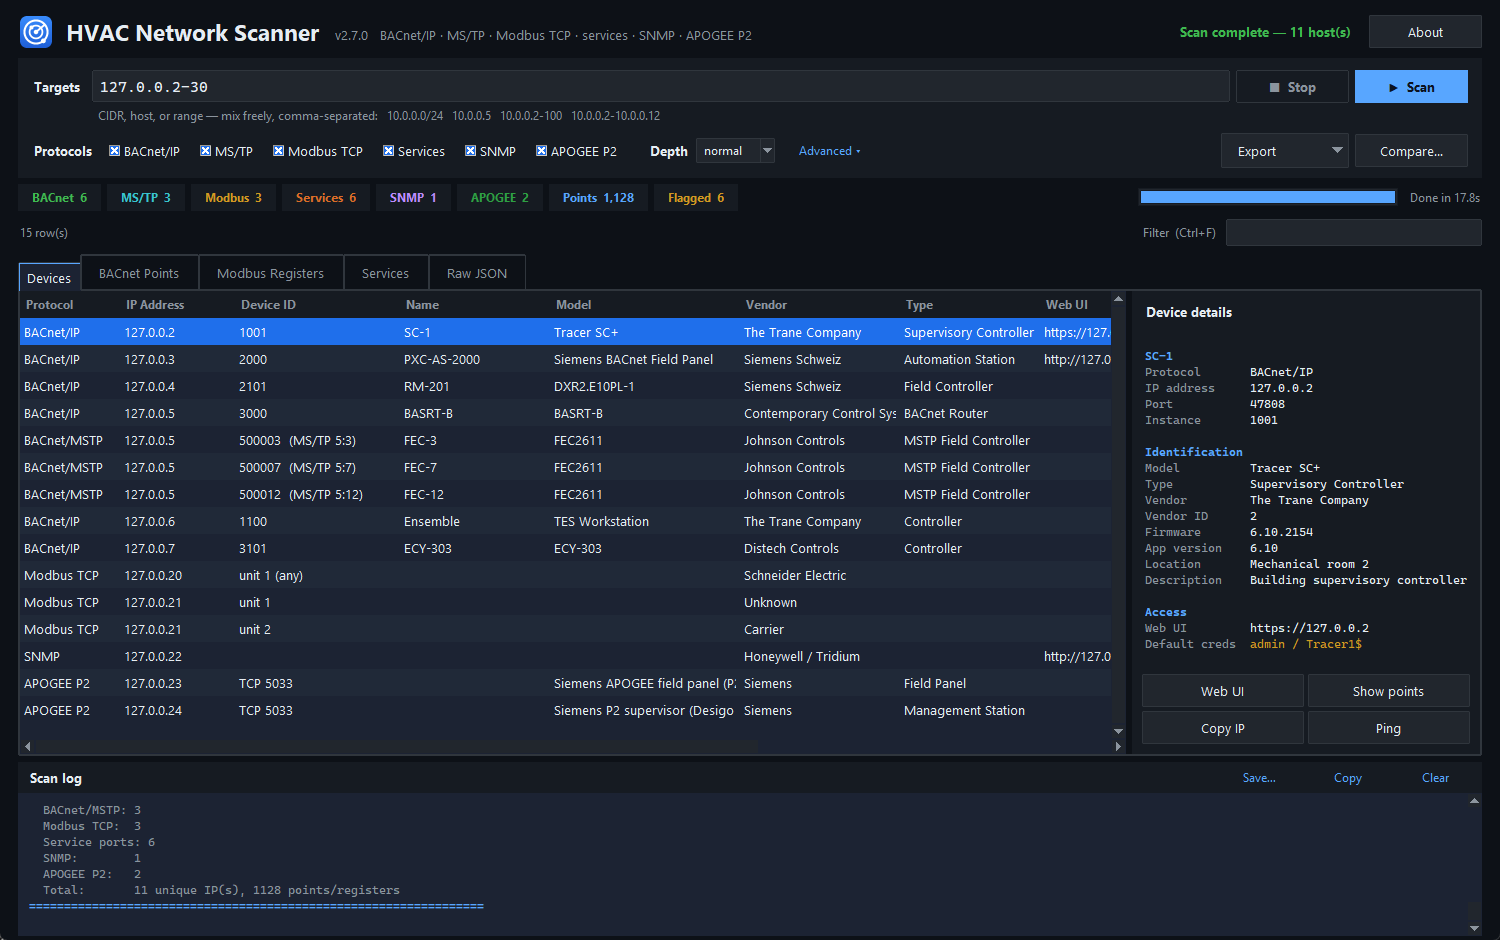
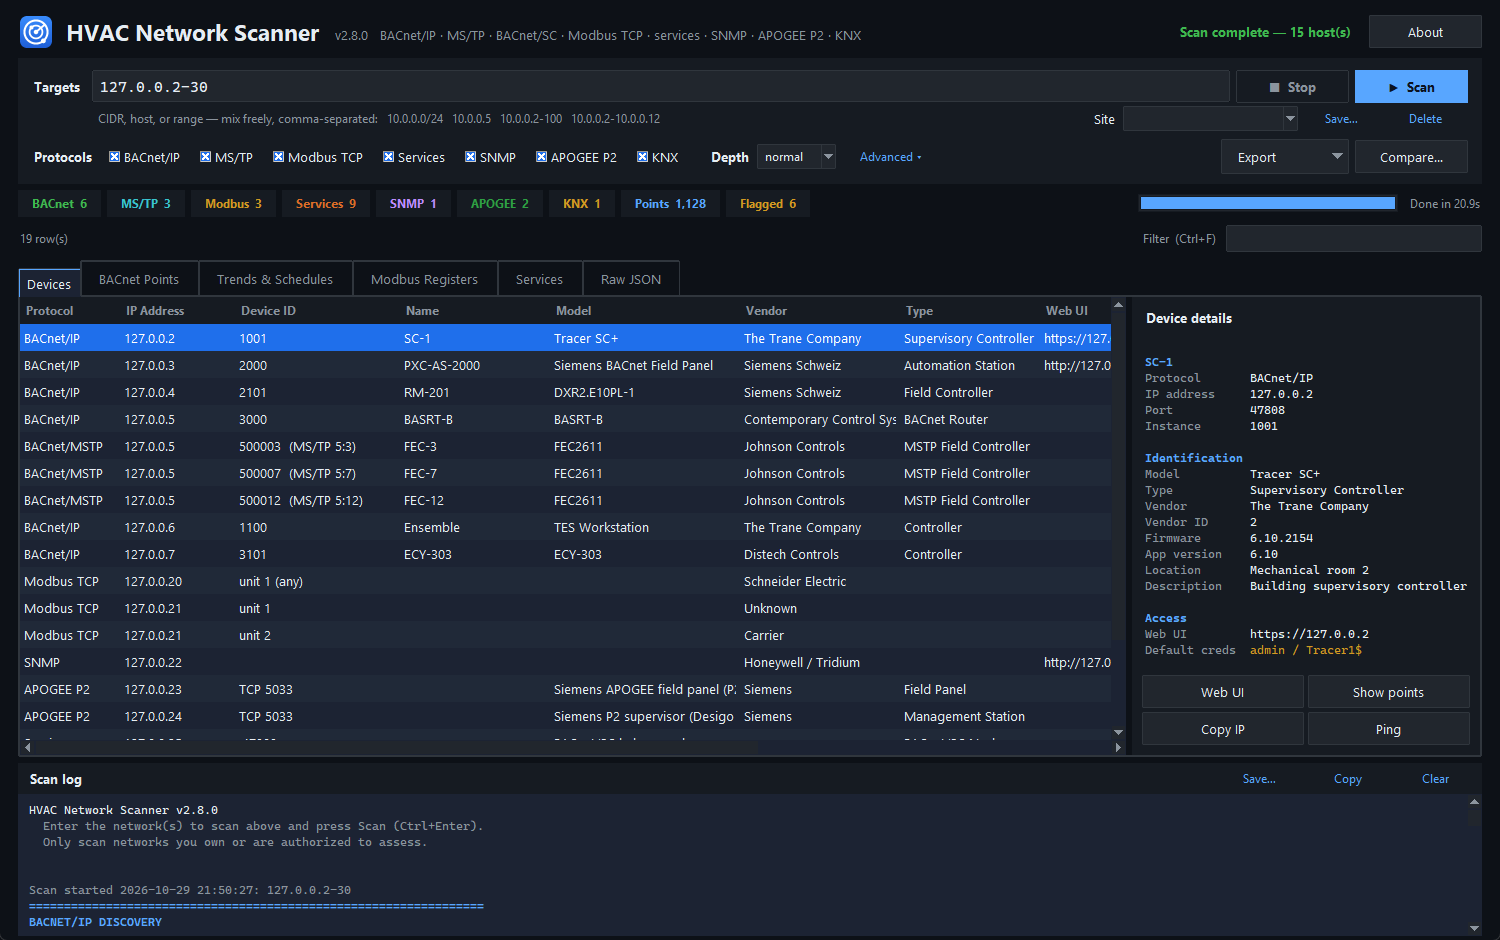
release: v2.8.0
Version 2.8.0, CHANGELOG and README dated, README screenshot retaken from the simulated site.

diff --git a/hvac_scanner/__init__.py b/hvac_scanner/__init__.py
@@ -1,10 +1,11 @@
 """
-HVAC Network Scanner — BACnet/IP, BACnet MSTP, Modbus TCP, HVAC services, SNMP.
+HVAC Network Scanner — BACnet/IP, MS/TP and BACnet/SC, Modbus TCP, KNXnet/IP,
+APOGEE P2, HVAC services, SNMP.
 
 Zero third-party dependencies (uses only the Python standard library).
 """
 
-__version__ = "2.7.0"
+__version__ = "2.8.0"
 __author__ = "James Cupps"
 __license__ = "MIT"
 

diff --git a/CHANGELOG.md b/CHANGELOG.md
@@ -3,7 +3,7 @@
 All notable changes to this project are documented here.
 Format based on [Keep a Changelog](https://keepachangelog.com/en/1.1.0/).
 
-## [2.8.0] — unreleased
+## [2.8.0] — 2026-10-29
 
 The rest of the BACnet roadmap and saved sites. Everything new is read-only:
 nothing registers with a BBMD, joins a BACnet/SC hub or writes to a device

diff --git a/README.md b/README.md
@@ -286,7 +286,7 @@ Exit codes:
 
 ## What's new
 
-### 2.8.0 (unreleased)
+### v2.8.0 (2026-10-29)
 
 The rest of the BACnet roadmap, and saved sites. Full list in
 [CHANGELOG.md](CHANGELOG.md).
